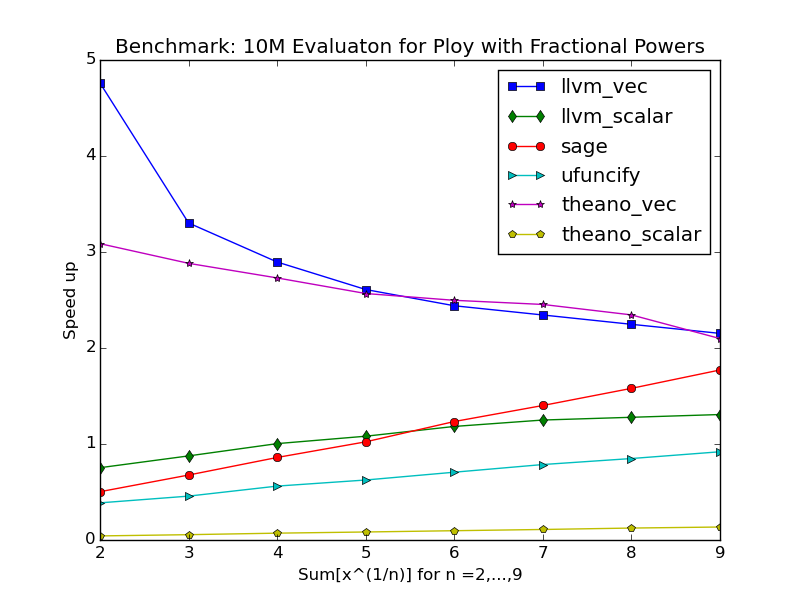
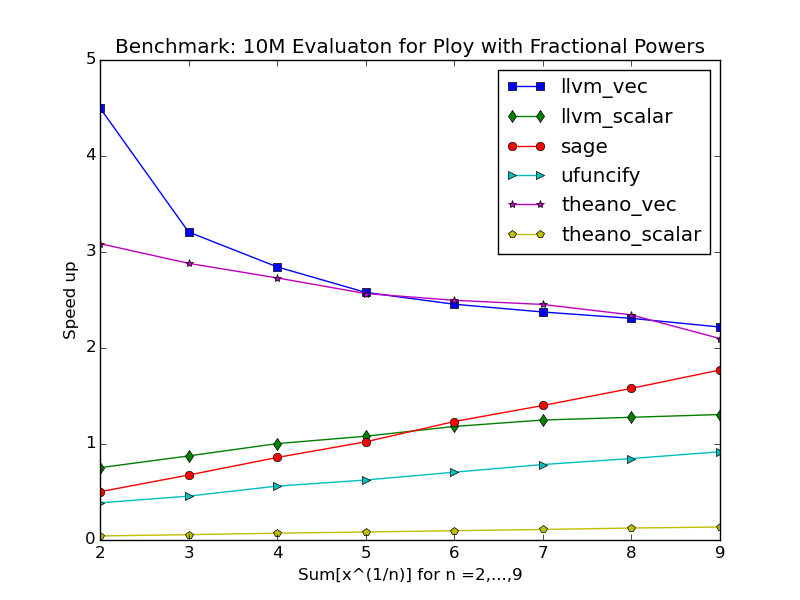
llvm_vec 256->128

diff --git a/benchmark-data-plot-sqrt.py b/benchmark-data-plot-sqrt.py
@@ -3,26 +3,26 @@ import matplotlib.pyplot as plt
 
 #-----------------------------------------Ploy with Fractional Powers-------------------------------------------------------
 llvm_vec = [
-# #vlen=128
-# 0.0682580471039,
-# 0.677155971527 ,
-# 1.25157594681  ,
-# 1.84160709381  ,
-# 2.41642284393  ,
-# 2.98730587959  ,
-# 3.56346201897  ,
-# 4.14961910248  ,
-# 4.74849295616  ,
-#vlen=256
-0.037257194519,
-0.640280008316,
-1.21580410004 ,
-1.80925416946 ,
-2.38864803314 ,
-3.00670194626 ,
-3.61068415642 ,
-4.2643969059  ,
-4.89458703995 ,
+#vlen=128
+0.0682580471039,
+0.677155971527 ,
+1.25157594681  ,
+1.84160709381  ,
+2.41642284393  ,
+2.98730587959  ,
+3.56346201897  ,
+4.14961910248  ,
+4.74849295616  ,
+# #vlen=256
+# 0.037257194519,
+# 0.640280008316,
+# 1.21580410004 ,
+# 1.80925416946 ,
+# 2.38864803314 ,
+# 3.00670194626 ,
+# 3.61068415642 ,
+# 4.2643969059  ,
+# 4.89458703995 ,
 ]
 
 llvm = [
@@ -139,14 +139,14 @@ for i in range(len(lambdify)):
 fig = plt.figure()
 ax = fig.add_subplot(1, 1, 1)
 x = np.arange(len(llvm))+1
-# x = np.arange(len(llvm)-1)+2
-# l1.pop(0)
-# l2.pop(0)
-# l3.pop(0)
-# l4.pop(0)
-# l5.pop(0)
-# l6.pop(0)
-# l7.pop(0)
+x = np.arange(len(llvm)-1)+2
+l1.pop(0)
+l2.pop(0)
+l3.pop(0)
+l4.pop(0)
+l5.pop(0)
+l6.pop(0)
+l7.pop(0)
 
 line, = plt.plot(x, l1, 's-', linewidth=1)
 line, = plt.plot(x, l2, 'd-', linewidth=1)
@@ -157,8 +157,8 @@ line, = plt.plot(x, l6, '*-', linewidth=1)
 line, = plt.plot(x, l7, 'p-', linewidth=1)
 ax.legend(['llvm_vec', 'llvm_scalar', 'sage', 'ufuncify', 'theano_vec', 'theano_scalar'])
 ax.set_title('Benchmark: 10M Evaluaton for Ploy with Fractional Powers')
-ax.set_xlabel('Sum[x^(1/n)] for n =1,...,9')
-#ax.set_xlabel('Sum[x^(1/n)] for n =2,...,9')
+#ax.set_xlabel('Sum[x^(1/n)] for n =1,...,9')
+ax.set_xlabel('Sum[x^(1/n)] for n =2,...,9')
 ax.set_ylabel('Speed up')
 plt.show()
 

diff --git a/benchmark-llvm-sqrt-vectorize.py b/benchmark-llvm-sqrt-vectorize.py
@@ -13,7 +13,7 @@ for i in range(1,NExpr):
 	f_exprs.append(expr)
 	#print expr
 
-vlen = 128
+vlen = 200
 ts = time.time()
 g1 = map(lambda a:JIT().compile3([x], vlen, [a]), f_exprs)
 te = time.time()
